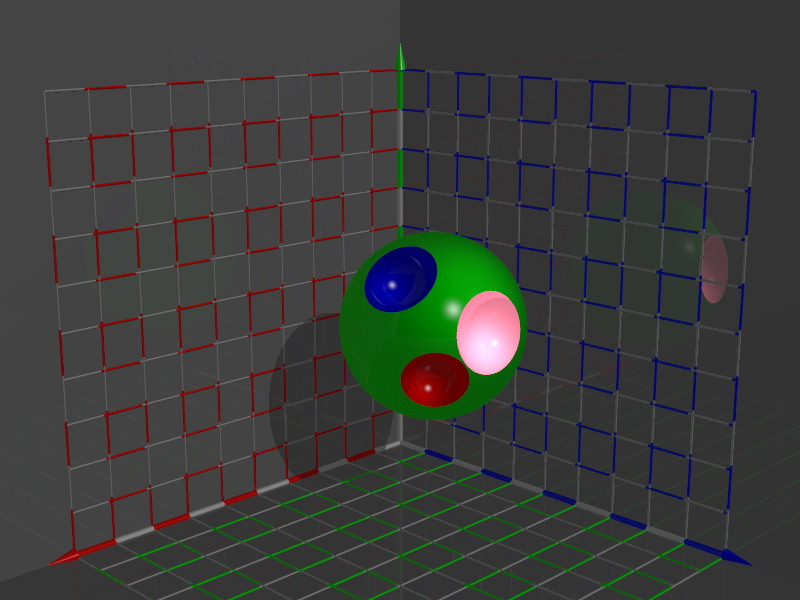
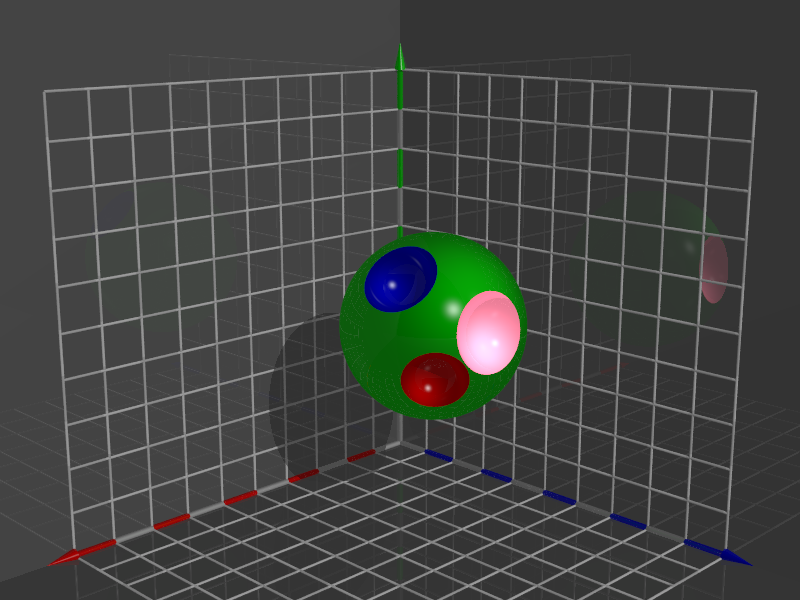
Grid defaults example

diff --git a/examples/spheres_csg.m b/examples/spheres_csg.m
@@ -80,9 +80,13 @@ tex_grid_red   = pov.declare("tex_grid_red",   pov.texture('pigment', [1.0 0.0 0
 tex_grid_green = pov.declare("tex_grid_green", pov.texture('pigment', [0.0 1.0 0.0], 'finish', "phong 1 reflection {0.10 metallic 0.4}"));
 tex_grid_blue  = pov.declare("tex_grid_blue",  pov.texture('pigment', [0.0 0.0 1.0], 'finish', "phong 1 reflection {0.10 metallic 0.4}"));
 
-pov.grid_2D('width', 10, 'height', 10,                      'translate', [5 0 5], 'texture_odd', tex_grid_green, 'texture_even', tex_grid_gray);
-pov.grid_2D('width', 10, 'height', 10, 'rotate', [ 0 0 90], 'translate', [0 5 5], 'texture_odd', tex_grid_blue,  'texture_even', tex_grid_gray);
-pov.grid_2D('width', 10, 'height', 10, 'rotate', [90 0  0], 'translate', [5 5 0], 'texture_odd', tex_grid_red,   'texture_even', tex_grid_gray);
+% pov.grid_2D('width', 10, 'height', 10,                      'translate', [5 0 5], 'texture_odd', tex_grid_green, 'texture_even', tex_grid_gray);
+% pov.grid_2D('width', 10, 'height', 10, 'rotate', [ 0 0 90], 'translate', [0 5 5], 'texture_odd', tex_grid_blue,  'texture_even', tex_grid_gray);
+% pov.grid_2D('width', 10, 'height', 10, 'rotate', [90 0  0], 'translate', [5 5 0], 'texture_odd', tex_grid_red,   'texture_even', tex_grid_gray);
+
+pov.grid_2D('width', 10, 'height', 10,                      'translate', [5 0 5]);
+pov.grid_2D('width', 10, 'height', 10, 'rotate', [ 0 0 90], 'translate', [0 5 5]);
+pov.grid_2D('width', 10, 'height', 10, 'rotate', [90 0  0], 'translate', [5 5 0]);
 
 % Objects textures
 tex_red   = pov.declare("tex_red",   pov.texture('pigment', [1 0 0], 'finish', 'phong 1 reflection {0.10 metallic 0.4}'));
